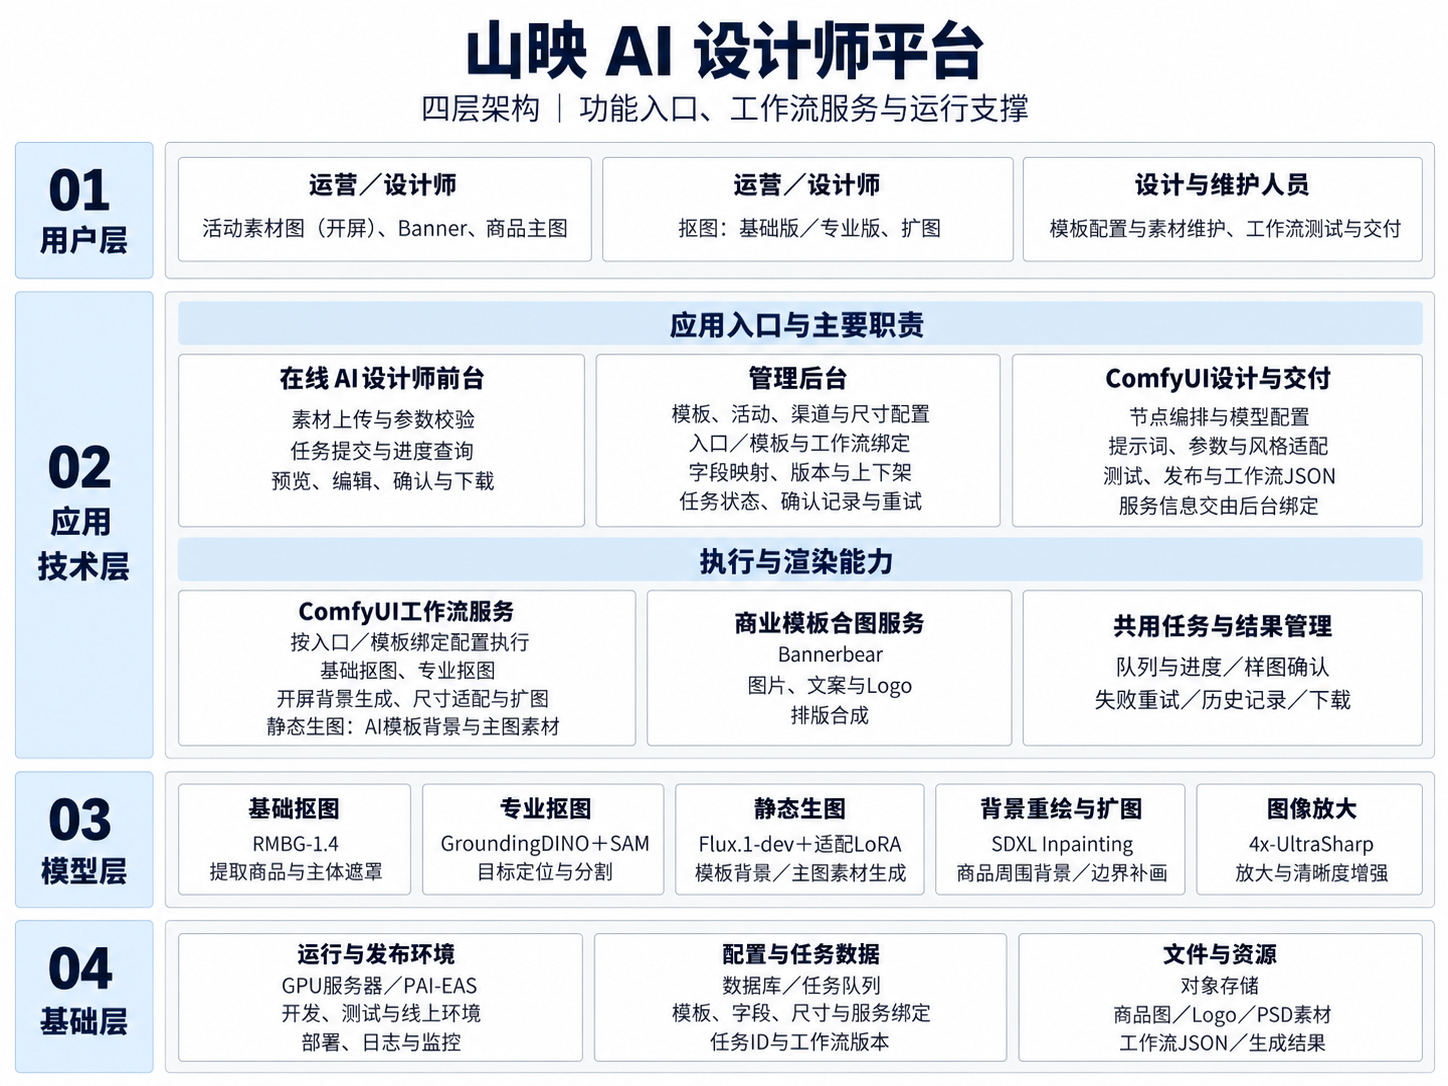
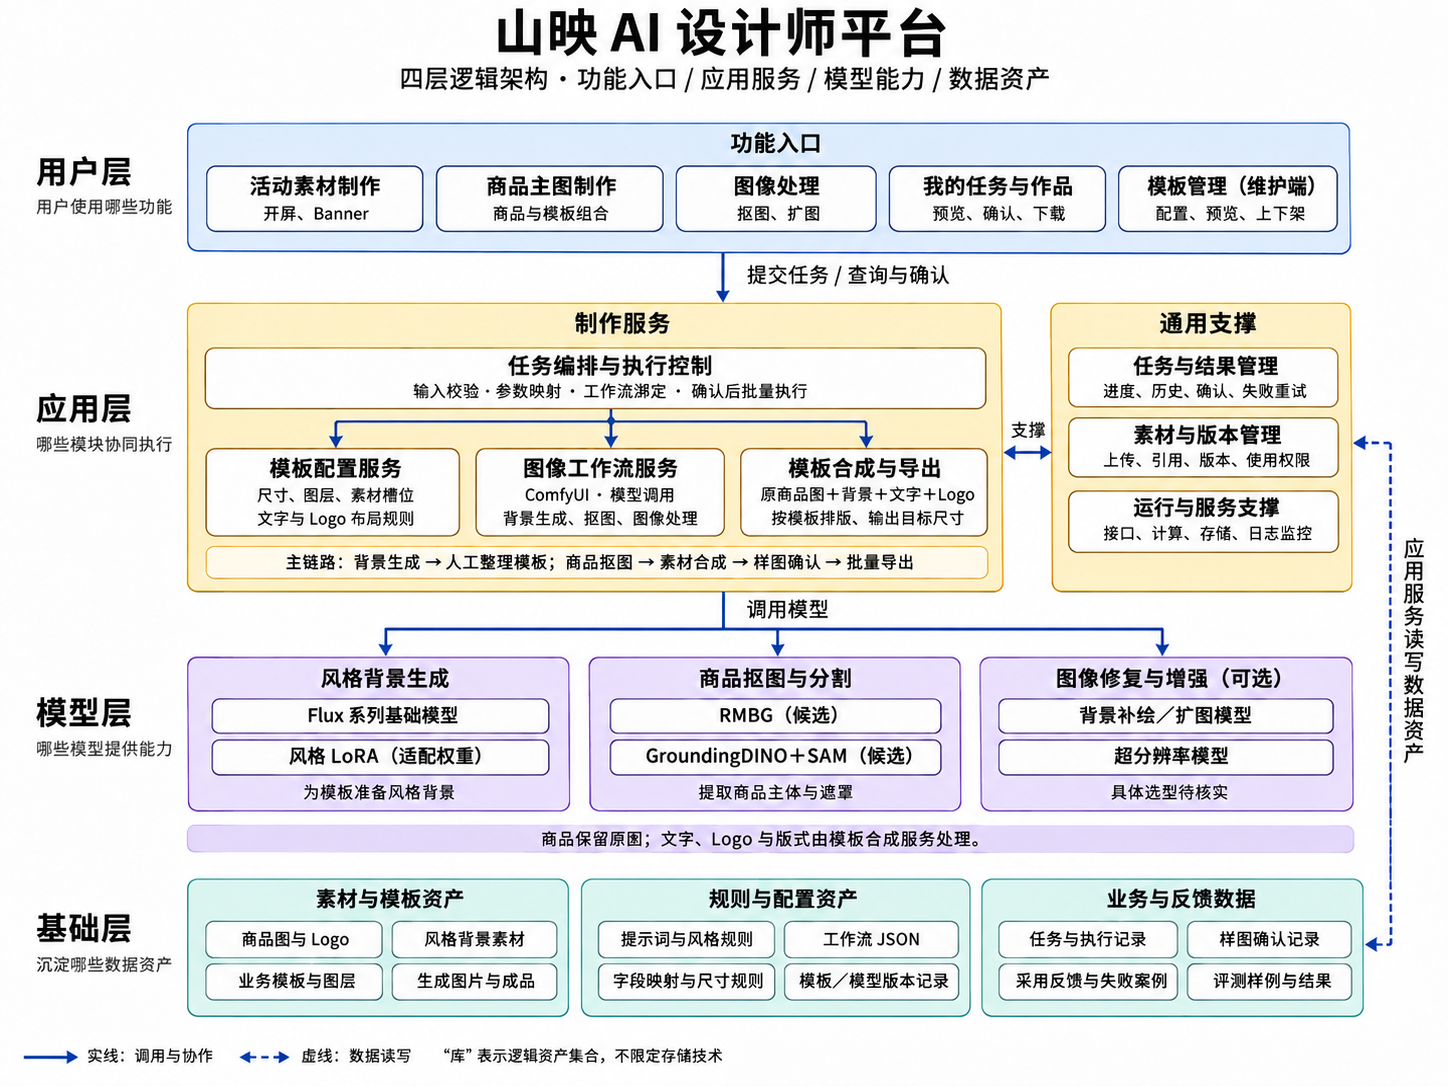
Update Shanying slide 07 with revised four-layer architecture

diff --git a/portfolio/projects/shanying/index.html b/portfolio/projects/shanying/index.html
@@ -1233,7 +1233,7 @@
 
 /* Enlarge the original architecture image and move it toward the page center. */
 #deck>.slide[data-slide-id="architecture-original-v3"] .canvas-card{position:relative}
-#deck>.slide[data-slide-id="architecture-original-v3"] a[href="images/09-architecture.png"]{position:absolute;left:25vw;top:-2vh;width:55vw;height:86vh!important;justify-content:flex-start!important}
+#deck>.slide[data-slide-id="architecture-original-v3"] a[href^="images/09-architecture.png"]{position:absolute;left:25vw;top:-2vh;width:55vw;height:86vh!important;justify-content:flex-start!important}
 
 #deck>.slide .canvas-card{padding-bottom:8vh}
 #deck>.slide.split .canvas-card{padding:0}
@@ -1324,7 +1324,7 @@
 </article>
 </div></section>
 <section class="slide light" data-layout="S08" data-slide-id="cutout-v2" data-animate="sub-stack"><div class="canvas-card"><header class="chrome-min"><div class="l">山映 / 06 批量抠图工作流</div><div class="r">CASE STUDY · 06 / 09</div></header><h2 style="font-size:min(4.3vw,7.6vh);font-weight:200;line-height:1.15">批量抠图：按任务选择处理链路</h2><div id="cutout-diagram" role="img" aria-label="图像预处理、模型放大后分为基础版与专业版，汇合遮罩反转和 Alpha 合成，恢复原图尺寸并预览"><svg viewBox="0 0 1440 410" preserveAspectRatio="none" aria-hidden="true"><defs><marker id="flow-arrow" markerWidth="8" markerHeight="8" refX="7" refY="4" orient="auto"><path d="M0 0L8 4L0 8" fill="none" stroke="#777"/></marker></defs><path d="M120 190H150" fill="none" stroke="#777" stroke-width="1.4" marker-end="url(#flow-arrow)"/><path d="M270 190H295V95H320" fill="none" stroke="#777" stroke-width="1.4" marker-end="url(#flow-arrow)"/><path d="M270 190H295V265H320" fill="none" stroke="#777" stroke-width="1.4" marker-end="url(#flow-arrow)"/><path d="M440 95H500" fill="none" stroke="#777" stroke-width="1.4" marker-end="url(#flow-arrow)"/><path d="M380 340V295" fill="none" stroke="#777" stroke-width="1.4" marker-end="url(#flow-arrow)"/><path d="M440 265H485" fill="none" stroke="#777" stroke-width="1.4" marker-end="url(#flow-arrow)"/><path d="M605 265H650" fill="none" stroke="#777" stroke-width="1.4" marker-end="url(#flow-arrow)"/><path d="M620 95H790V190H820" fill="none" stroke="#777" stroke-width="1.4" marker-end="url(#flow-arrow)"/><path d="M770 265H790V190H820" fill="none" stroke="#777" stroke-width="1.4" marker-end="url(#flow-arrow)"/><path d="M940 190H985" fill="none" stroke="#777" stroke-width="1.4" marker-end="url(#flow-arrow)"/><path d="M1105 190H1150" fill="none" stroke="#777" stroke-width="1.4" marker-end="url(#flow-arrow)"/><path d="M1270 190H1310" fill="none" stroke="#777" stroke-width="1.4" marker-end="url(#flow-arrow)"/><path d="M380 65V20H1045V160" fill="none" stroke="#777" stroke-width="1.4" marker-end="url(#flow-arrow)" stroke-dasharray="5 4"/><path d="M710 295V320H1045V220" fill="none" stroke="#777" stroke-width="1.4" marker-end="url(#flow-arrow)" stroke-dasharray="5 4"/></svg><div class="flow-node" data-node="A" style="left:0.0%;top:39.024390243902445%;width:8.333333333333334%;height:14.634146341463415%"><strong>图像预处理</strong></div><div class="flow-node" data-node="B" style="left:10.416666666666666%;top:39.024390243902445%;width:8.333333333333334%;height:14.634146341463415%"><strong>模型放大</strong></div><div class="flow-node" data-node="C" style="left:22.22222222222222%;top:15.853658536585368%;width:8.333333333333334%;height:14.634146341463415%"><strong>RMBG-1.4</strong><span>自动前景分割</span></div><div class="flow-node" data-node="D" style="left:34.72222222222222%;top:15.853658536585368%;width:8.333333333333334%;height:14.634146341463415%"><strong>遮罩收缩修边</strong></div><div class="flow-node" data-node="E" style="left:22.22222222222222%;top:57.31707317073171%;width:8.333333333333334%;height:14.634146341463415%"><strong>GroundingDINO</strong><span>根据文字定位目标</span></div><div class="flow-node" data-node="F" style="left:33.68055555555556%;top:57.31707317073171%;width:8.333333333333334%;height:14.634146341463415%"><strong>SAM</strong><span>轮廓分割</span></div><div class="flow-node" data-node="G" style="left:45.138888888888886%;top:57.31707317073171%;width:8.333333333333334%;height:14.634146341463415%"><strong>VITMatte</strong><span>边缘精修</span></div><div class="flow-node" data-node="T" style="left:22.22222222222222%;top:82.92682926829269%;width:8.333333333333334%;height:14.634146341463415%"><strong>文字输入</strong><span>例如 shoe</span></div><div class="flow-node" data-node="H" style="left:56.94444444444444%;top:39.024390243902445%;width:8.333333333333334%;height:14.634146341463415%"><strong>遮罩反转</strong></div><div class="flow-node" data-node="I" style="left:68.40277777777777%;top:39.024390243902445%;width:8.333333333333334%;height:14.634146341463415%"><strong>Alpha 合成</strong></div><div class="flow-node" data-node="J" style="left:79.86111111111111%;top:39.024390243902445%;width:8.333333333333334%;height:14.634146341463415%"><strong>恢复原图尺寸</strong></div><div class="flow-node" data-node="K" style="left:90.97222222222221%;top:39.024390243902445%;width:8.333333333333334%;height:14.634146341463415%"><strong>结果预览</strong></div><span class="flow-label" style="left:19.444444444444443%;top:29.26829268292683%">基础版</span><span class="flow-label" style="left:19.444444444444443%;top:52.43902439024391%">专业版</span><span class="flow-label" style="left:49.86111111111111%;top:17.5609756097561%">遮罩</span><span class="flow-label" style="left:54.86111111111111%;top:67.07317073170732%">遮罩</span><span class="flow-label" style="left:65.97222222222221%;top:34.146341463414636%">透明遮罩</span><span class="flow-label" style="left:45.833333333333336%;top:0.0%">基础版图像</span><span class="flow-label" style="left:60.06944444444444%;top:73.65853658536587%">专业版图像</span></div><div id="cutout-versions"><section><header><div><span>基础版</span><h3>自动去背景</h3></div><button id="basic-flow-open" type="button" aria-haspopup="dialog">基础版流程</button></header><div class="version-steps"><div><strong>批量图片输入</strong><p>准备需要去背景的主体图片</p></div><div><strong>RMBG-1.4</strong><p>自动前景分割，遮罩收缩修边</p></div><div><strong>结果输出</strong><p>Alpha 合成后恢复尺寸、预览</p></div></div></section><section><header><div><span>专业版</span><h3>定位后再分割</h3></div><button id="pro-flow-open" type="button" aria-haspopup="dialog">专业版流程</button></header><div class="version-steps"><div><strong>图片与目标描述</strong><p>用文字明确需要保留的目标</p></div><div><strong>GroundingDINO → SAM → VITMatte</strong><p>定位、轮廓分割与边缘精修</p></div><div><strong>模型放大</strong><p>可使用 4x-UltraSharp 放大图像</p></div></div></section></div></div></section>
-<section class="slide light" data-layout="S22" data-slide-id="architecture-original-v3" data-animate="sub-stack"><div class="canvas-card"><header class="chrome-min"><div class="l">山映 / 后台与四层架构</div><div class="r">CASE STUDY · 07 / 09</div></header><div style="display:grid;grid-template-columns:24vw 1fr;gap:2vw;flex:1;min-height:0"><div style="padding-top:3vh"><div class="t-cat">07 / ORIGINAL DIAGRAM</div><h2 style="font-size:min(4vw,7.1vh);line-height:1.25;font-weight:200;margin-top:3vh">后台与<br>四层架构</h2><p class="body" style="margin-top:4vh">原文架构图<br>完整保留内容与结构</p><p class="body-sm" style="margin-top:3vh">点击图片，打开原尺寸查看。</p></div><a href="images/09-architecture.png" target="_blank" rel="noopener" style="display:flex;align-items:center;justify-content:center;min-height:0;height:74vh"><img src="images/09-architecture.png" alt="山映 AI 设计师平台四层架构：功能入口、工作流服务与运行支撑" style="display:block;max-height:100%;max-width:100%;width:auto;height:auto;object-fit:contain"></a></div></div></section>
+<section class="slide light" data-layout="S22" data-slide-id="architecture-original-v3" data-animate="sub-stack"><div class="canvas-card"><header class="chrome-min"><div class="l">山映 / 后台与四层架构</div><div class="r">CASE STUDY · 07 / 09</div></header><div style="display:grid;grid-template-columns:24vw 1fr;gap:2vw;flex:1;min-height:0"><div style="padding-top:3vh"><div class="t-cat">07 / SYSTEM ARCHITECTURE</div><h2 style="font-size:min(4vw,7.1vh);line-height:1.25;font-weight:200;margin-top:3vh">后台与<br>四层架构</h2><p class="body" style="margin-top:4vh">四层逻辑架构<br>功能、服务、模型与数据资产</p><p class="body-sm" style="margin-top:3vh">点击图片，打开原尺寸查看。</p></div><a href="images/09-architecture.png?v=20261105-4" target="_blank" rel="noopener" style="display:flex;align-items:center;justify-content:center;min-height:0;height:74vh"><img src="images/09-architecture.png?v=20261105-4" alt="山映 AI 设计师平台四层逻辑架构：功能入口、应用服务、模型能力与数据资产" style="display:block;max-height:100%;max-width:100%;width:auto;height:auto;object-fit:contain"></a></div></div></section>
 <section class="slide light" data-layout="S21" data-slide-id="data-comparison" data-animate="sub-stack"><div class="canvas-card"><header class="chrome-min"><div class="l">山映 / 08 数据</div><div class="r">CASE STUDY · 08 / 09</div></header><h2 style="font-size:min(4.7vw,8.4vh);font-weight:200;line-height:1.15">生成与采用情况对比</h2><p style="font-size:min(1.4vw,2.5vh);color:#666;margin-top:2vh;text-align:right">数量单位：张</p><table id="metrics-table"><thead><tr><th rowspan="2" scope="col">类型</th><th colspan="4" scope="colgroup">25.12</th><th colspan="4" scope="colgroup">26.4</th></tr><tr><th scope="col">生成数量</th><th scope="col">占总生成量</th><th scope="col">采用数量</th><th scope="col">采用率</th><th scope="col">生成数量</th><th scope="col">占总生成量</th><th scope="col">采用数量</th><th scope="col">采用率</th></tr></thead><tbody><tr><th scope="row">Banner</th><td>1,137</td><td>36.50%</td><td>648</td><td>57.00%</td><td>1,463</td><td>32.50%</td><td>1,287</td><td>88.00%</td></tr><tr><th scope="row">开屏图</th><td>1,982</td><td>63.50%</td><td>705</td><td>35.60%</td><td>1,287</td><td>28.60%</td><td>966</td><td>75.10%</td></tr><tr><th scope="row">商品主图</th><td>—</td><td>—</td><td>—</td><td>—</td><td>1,756</td><td>39.00%</td><td>1,407</td><td>80.10%</td></tr><tr class="total"><th scope="row">合计</th><td>3,119</td><td>100%</td><td>1,353</td><td>43.4%</td><td>4,506</td><td>约100%</td><td>3,660</td><td>81.20%</td></tr></tbody></table><p class="data-note">商品主图的 25.12 数据未提供，以“—”表示；占比与采用率沿用原表。</p><div id="data-review-heading"><h3>从“生成多少”转向“为什么不能采用”</h3></div>
 <div id="data-review-columns">
 <section id="data-problems"><p class="review-intro">按类型归类未采用原因，结合运营反馈与设计复核，聚焦三个问题：</p>
